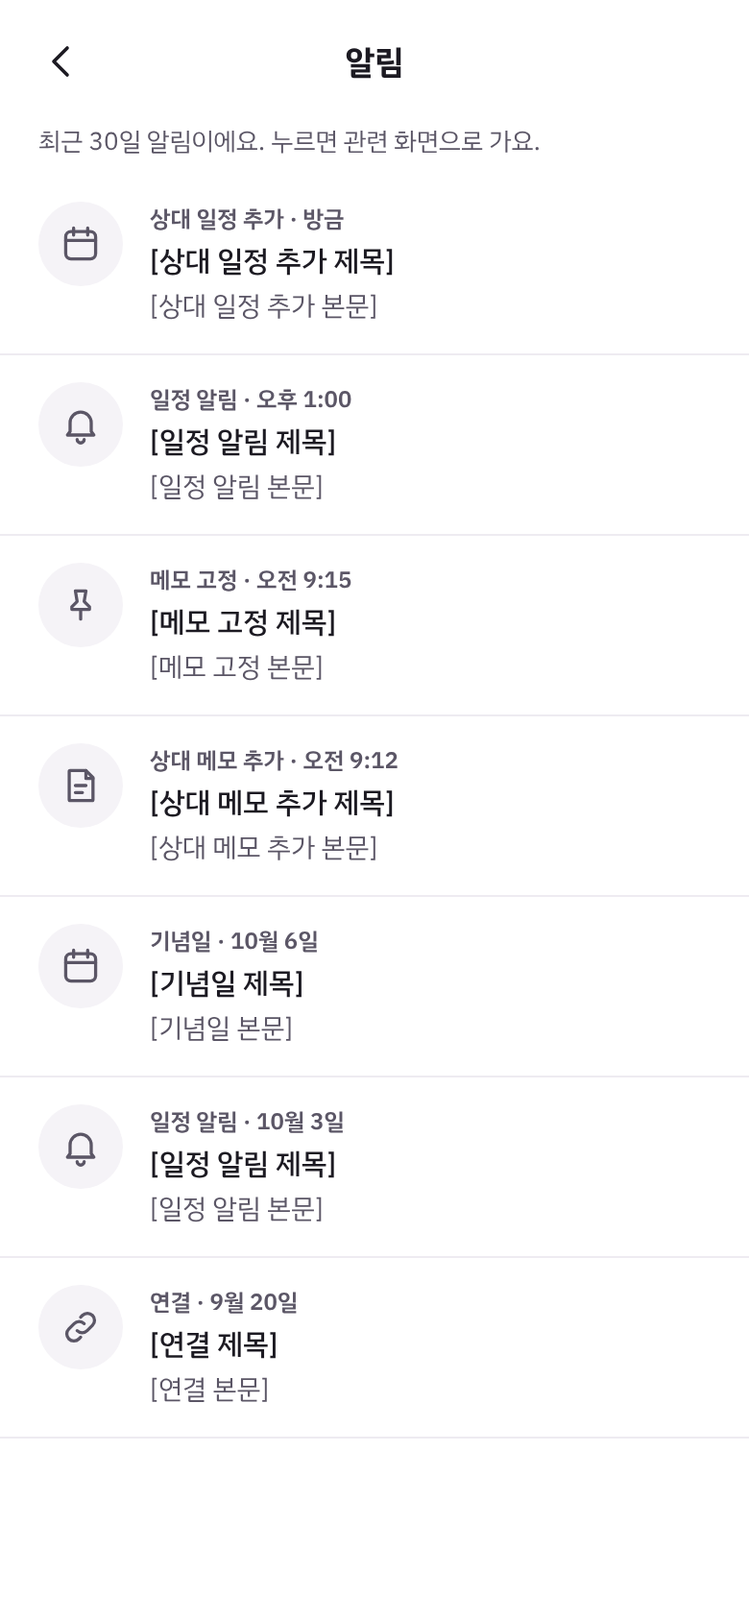
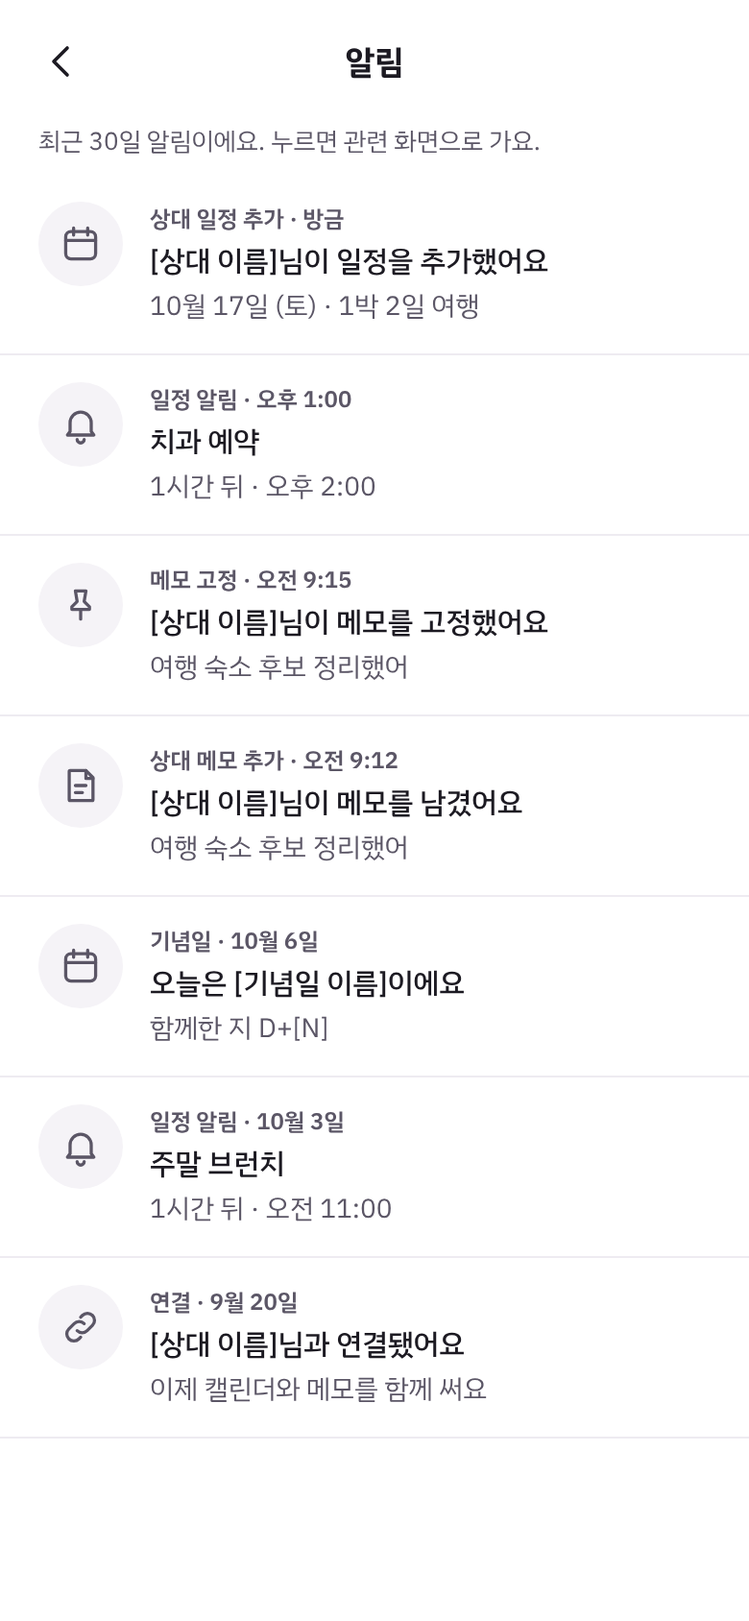
docs(prd): v0.4 남은 결정 반영 (D-43~D-47, Q-09 해결)
- 삭제된 대상 알림은 안내 후 목록에 머묾 (FR-NOTI-05 AC5)
- 탈퇴는 계정 화면 안 (FR-SET-01)
- 해제 시 연결·해제 알림만 남김 (Q-09 해결)
- 알림 문구 표, 잠금화면은 OS 설정에 맡김
- 바뀐 이전 초대코드는 INVITE_EXPIRED
- NFR-TIME-01 메모 날짜, 권한 표 알림 행, 6.6절 순서
- API·ERD·SCREENS·알림 목록 디자인(캔버스 버전 32) 맞춤

Claude-Session: https://claude.ai/code/session_01UgG97h9mRRas5q74ojFbSs

diff --git a/docs/SCREENS.md b/docs/SCREENS.md
@@ -1,9 +1,9 @@
 # 둘이서 화면 명세 (MVP v0.1)
 
 > 기준 문서: 둘이서 PRD v0.4 (`docs/PRD.md`)
-> 디자인 기준: **반영됨 (2026-10-18, 캔버스 버전 30, PRD v0.4)**. 19개 화면 모두 이미지가 있어요.
+> 디자인 기준: **반영됨 (2026-10-18, 캔버스 버전 32, PRD v0.4)**. 19개 화면 모두 이미지가 있어요.
 > 디자인 원본: claude.ai 디자인 캔버스 "커플 공유 앱 데모" (보드 대응표: `design/canvas-map.md`)
-> 디자인 변경 요청서: `design/change-requests/prd-v0.4.md` (반영 완료, 캔버스 버전 30)
+> 디자인 변경 요청서: `design/change-requests/prd-v0.4.md` (반영 완료, 캔버스 버전 32)
 > 함께 보는 문서: `design/design-system.md`, `design/tokens.json`, `design/screens/`
 > 작성일: 2026-10-17 · 갱신: 2026-10-18 (디자인 핸드오프, PRD v0.4 반영)
 
@@ -66,7 +66,7 @@
   - 펼친 상태(달력 크게, 날짜 칸에 일정 막대): `SCR-CAL-01--expanded.png`. 날짜 있는 메모가 펼친 달력에서 어떻게 보이는지는 디자인에서 정해요.
   - 선택한 날 비어 있음: "아직 일정이나 메모가 없어요" + "+ 이 날에 추가하기"
   - 개인 공간: D-day 없음 · 커플 + 처음 만난 날 없음: D-day 자리에 처음 만난 날 입력 안내 (디자인 없음, PRD 기준)
-- **디자인**: 반영됨 (2026-10-18, 캔버스 버전 30, design/screens/SCR-CAL-01.png, SCR-CAL-01--expanded.png) — 알림 버튼의 안 읽음 점, 날짜 점·목록의 메모 표시. 점은 기존 brand-500 색을 써요.
+- **디자인**: 반영됨 (2026-10-18, 캔버스 버전 32, design/screens/SCR-CAL-01.png, SCR-CAL-01--expanded.png) — 알림 버튼의 안 읽음 점, 날짜 점·목록의 메모 표시. 점은 기존 brand-500 색을 써요.
 
 ### SCR-CAL-02 일정 상세
 
@@ -76,7 +76,7 @@
 - **권한**: 수정·삭제는 작성자에게만. 대상이 '함께'면 두 사람 모두
 - **일정 알림 선택지**: 시간 일정은 없음·정시·10분 전·1시간 전·1일 전, 종일 일정은 없음·당일 오전 9시·1일 전 오전 9시. 내 설정만 보임
 - **다이얼로그**: 삭제 확인
-- **디자인**: 반영됨 (2026-10-18, 캔버스 버전 30, design/screens/SCR-CAL-02.png, SCR-CAL-02--partner.png, SCR-CAL-02--delete-dialog.png) — 내 일정(수정·삭제 보임), 상대 일정(수정·삭제 없음), 삭제 확인.
+- **디자인**: 반영됨 (2026-10-18, 캔버스 버전 32, design/screens/SCR-CAL-02.png, SCR-CAL-02--partner.png, SCR-CAL-02--delete-dialog.png) — 내 일정(수정·삭제 보임), 상대 일정(수정·삭제 없음), 삭제 확인.
 
 ### SCR-CAL-03 일정 작성·수정
 
@@ -101,7 +101,7 @@
 - **진입**: SCR-CAL-01 앱바의 "함께한 지 D+N", 기념일 푸시, 알림 목록(SCR-NOTI-01)
 - **구성**: 앱바(뒤로, "기념일", 추가 버튼 → SCR-ANNIV-02), 함께한 날 카드(겹친 원, "함께한 지", D+N, "처음 만난 날 <날짜>"), "다가오는 기념일 · 가까운 순" 목록(날짜 블록 월/일, 이름, "자동 기념일" 또는 "내가/상대가 만든 기념일 · 매년" + 사람 색 점, D-N 배지 — 30일 이내는 `brand-100`/`brand-700`), 하단 안내 문구
 - **권한**: 자동 기념일은 수정·삭제 불가(누를 수 없음). 직접 기념일은 작성자만 수정
-- **디자인**: 반영됨 (2026-10-18, 캔버스 버전 30, design/screens/SCR-ANNIV-01.png) — "처음 만난 날"로 고쳤어요.
+- **디자인**: 반영됨 (2026-10-18, 캔버스 버전 32, design/screens/SCR-ANNIV-01.png) — "처음 만난 날"로 고쳤어요.
 
 ### SCR-ANNIV-02 직접 기념일 작성·수정
 
@@ -126,7 +126,7 @@
   - 즐겨찾기 없음: "즐겨찾기한 메모가 없어요. 메모 옆 별을 눌러 추가해 보세요."
 - **목록 항목**: 제목(없으면 본문 첫 줄), 작성자, 작성일, 메모 날짜(있으면). 작성일과 메모 날짜는 라벨이나 아이콘으로 구분해요.
 - **없는 것**: 검색, 상대 읽음 표시, NEW 배지 (D-41)
-- **디자인**: 반영됨 (2026-10-18, 캔버스 버전 30, design/screens/SCR-MEMO-01.png) — 검색·읽음 표시·NEW·체크리스트 표시를 빼고, 메모 날짜를 작성일과 따로 달력 아이콘 칩으로 보여요.
+- **디자인**: 반영됨 (2026-10-18, 캔버스 버전 32, design/screens/SCR-MEMO-01.png) — 검색·읽음 표시·NEW·체크리스트 표시를 빼고, 메모 날짜를 작성일과 따로 달력 아이콘 칩으로 보여요.
 
 ### SCR-MEMO-02 고정 메모 전체
 
@@ -134,7 +134,7 @@
 - **진입**: SCR-MEMO-01의 "고정 메모 전체 보기" (고정 4개 이상일 때만)
 - **구성**: 앱바(뒤로, "고정된 메모 N"), 안내 "최근에 고정한 순서예요. 핀을 누르면 고정이 풀려요.", 핀 카드 전체(최근 고정순, 메모 날짜가 있으면 날짜), 비었을 때 "고정된 메모가 없어요."
 - **없는 것**: 읽음 표시, NEW 배지 (D-41)
-- **디자인**: 반영됨 (2026-10-18, 캔버스 버전 30, design/screens/SCR-MEMO-02.png) — 읽음·NEW·체크리스트 표시를 빼고 메모 날짜 칩을 넣었어요.
+- **디자인**: 반영됨 (2026-10-18, 캔버스 버전 32, design/screens/SCR-MEMO-02.png) — 읽음·NEW·체크리스트 표시를 빼고 메모 날짜 칩을 넣었어요.
 
 ### SCR-MEMO-03 메모 상세
 
@@ -143,7 +143,7 @@
 - **구성 (PRD 기준)**: 제목, 본문, 메모 날짜(있으면), 작성자 닉네임, 고정 버튼, 즐겨찾기 버튼
 - **권한**: 고정은 두 사람 모두. 수정·삭제는 작성자만(수정 대상: 제목, 본문, 메모 날짜). 즐겨찾기는 각자 (상대에게 안 보임)
 - **다이얼로그**: 삭제 확인
-- **디자인**: 반영됨 (2026-10-18, 캔버스 버전 30, design/screens/SCR-MEMO-03.png, SCR-MEMO-03--partner.png, SCR-MEMO-03--delete-dialog.png) — 내 메모(날짜 있음), 상대 메모(날짜 없음, 고정·즐겨찾기만), 삭제 확인.
+- **디자인**: 반영됨 (2026-10-18, 캔버스 버전 32, design/screens/SCR-MEMO-03.png, SCR-MEMO-03--partner.png, SCR-MEMO-03--delete-dialog.png) — 내 메모(날짜 있음), 상대 메모(날짜 없음, 고정·즐겨찾기만), 삭제 확인.
 
 ### SCR-MEMO-04 메모 작성·수정
 
@@ -152,7 +152,7 @@
 - **구성**: SCR-CAL-03과 같은 화면의 [메모] 탭. 제목(placeholder "예) 주말에 살 것"), 날짜 영역, 메모(본문), "상대에게 알림 보내기" 스위치. 대상 선택 없음. 체크리스트 없음
 - **날짜 영역**: 기본은 날짜가 없고 [날짜 추가] 버튼만 있어요. 버튼을 눌러 날짜를 고르면 버튼이 날짜 행으로 바뀌고, 행 안의 제거 버튼(접근성 라벨 "날짜 빼기")으로 날짜를 뺄 수 있어요. 날짜 행을 누르면 날짜를 바꿀 수 있어요. 날짜를 붙인 메모는 캘린더의 그 날에도 나와요.
 - **조건**: 제목, 본문이 둘 다 비어 있으면 저장되지 않음 (날짜만 있어도 저장되지 않음). 개인 공간과 수정할 때는 알림 스위치가 보이지 않음
-- **디자인**: 반영됨 (2026-10-18, 캔버스 버전 30, design/screens/SCR-MEMO-04.png, SCR-MEMO-04--date.png) — 기본은 [날짜 추가] 버튼, 날짜를 넣으면 날짜 행과 [날짜 빼기].
+- **디자인**: 반영됨 (2026-10-18, 캔버스 버전 32, design/screens/SCR-MEMO-04.png, SCR-MEMO-04--date.png) — 기본은 [날짜 추가] 버튼, 날짜를 넣으면 날짜 행과 [날짜 빼기].
 
 ---
 
@@ -173,14 +173,14 @@
 - **코드 규칙**: 영문 대문자와 숫자 6자리, 헷갈리는 0·O·1·I·L 제외. 만든 지 10분 뒤에 만료돼요.
 - **재요청**: [코드 새로 만들기]를 누르면 이전 코드는 바로 만료되고 새 코드가 나와요(남은 시간은 다시 10분). 마지막으로 만든 지 1분이 안 지났으면 버튼이 비활성이고 "N초 뒤에 다시 만들 수 있어요"가 보여요. 1분이 지나면 버튼이 켜져요.
 - **만료**: 남은 시간이 0이 되면 앱이 새 코드를 자동으로 받아 보여주고, 코드 아래에 "시간이 지나 새 코드를 만들었어요. 새 코드를 다시 보내 주세요."가 보여요. 화면에 다시 들어왔을 때 만료돼 있어도 같아요. 백그라운드에서는 발급하지 않아요 (FR-COUPLE-01 AC5, D-42).
-- **디자인**: 반영됨 (2026-10-18, 캔버스 버전 30, design/screens/SCR-COUPLE-02.png, SCR-COUPLE-02--cooldown.png, SCR-COUPLE-02--renewed.png) — "10분 동안 유효 · N분 N초 남음", 재요청 대기 상태 "N초 뒤에 다시 만들 수 있어요", 만료 후 자동 재발급 안내.
+- **디자인**: 반영됨 (2026-10-18, 캔버스 버전 32, design/screens/SCR-COUPLE-02.png, SCR-COUPLE-02--cooldown.png, SCR-COUPLE-02--renewed.png) — "10분 동안 유효 · N분 N초 남음", 재요청 대기 상태 "N초 뒤에 다시 만들 수 있어요", 만료 후 자동 재발급 안내.
 
 ### SCR-COUPLE-03 초대코드 입력하기
 
 - **관련 FR**: FR-COUPLE-02, FR-COUPLE-01
 - **구성**: 뒤로, 제목 "받은 초대코드를 입력해 주세요", 설명 "영문과 숫자 6자리예요.", 코드 칸 6개(현재 칸 `brand-500` 2px), [붙여넣기], 코드가 다 차면 연결할 상대 카드("[상대 이름]", 다시 입력), [연결하고 시작하기](비활성 → 활성) → SCR-COUPLE-04
 - **입력**: 소문자로 입력해도 되고, 칸에는 대문자로 보여요. 대소문자를 구분하지 않고 같은 코드로 처리해요.
-- **오류 (각각 다른 문구, 디자인 없음)**: 존재하지 않는 코드, 만료된 코드, 이미 사용됐거나 재요청으로 만료된 코드, 자신이 만든 코드, 사용할 수 없는 코드, 1시간 10회 실패로 입력 제한
+- **오류 (각각 다른 문구, 디자인 없음)**: 존재하지 않는 코드, 만료된 코드(재요청·자동 재발급으로 바뀐 이전 코드 포함: "만료된 코드예요. 상대에게 새 코드를 받아 주세요.", PRD D-47), 이미 사용된 코드, 자신이 만든 코드, 사용할 수 없는 코드, 1시간 10회 실패로 입력 제한
 - **디자인**: 반영됨 (2026-10-18, design/screens/SCR-COUPLE-03.png) — 확인 결과 변경 없음 (6칸, "영문과 숫자 6자리예요.", 소문자 입력은 대문자로 보임).
 
 ### SCR-COUPLE-04 연결 완료
@@ -190,7 +190,7 @@
 - **구성**: 겹친 원, 제목 "[상대 이름]님과 연결됐어요", 설명, "처음 만난 날" 날짜 선택("날짜를 골라 주세요", 안내 "D-day와 기념일이 이 날을 1일로 계산돼요. 둘 중 누구든 나중에 바꿀 수 있어요."), "혼자 쓴 기록" — 개수 안내와 [가져오기](기본) / [가져오지 않기] 선택 카드, "내 기록만 정해요. 상대의 기록은 상대가 정해요.", [둘이서 시작하기] → SCR-CAL-01
 - **상태**: 혼자 쓴 기록이 없으면 기록 영역이 없음 · 유예 기간 안 재연결이면 이전 공간이 복구되고 해제 후 새로 쓴 기록만 고름
 - **다이얼로그**: "가져오지 않기"로 시작하면 "혼자 쓴 기록을 삭제할까요?" [취소] [삭제하고 시작] — `SCR-COUPLE-04--drop-dialog.png`
-- **디자인**: 반영됨 (2026-10-18, 캔버스 버전 30, design/screens/SCR-COUPLE-04.png, SCR-COUPLE-04--drop-dialog.png) — "처음 만난 날"로 고쳤어요.
+- **디자인**: 반영됨 (2026-10-18, 캔버스 버전 32, design/screens/SCR-COUPLE-04.png, SCR-COUPLE-04--drop-dialog.png) — "처음 만난 날"로 고쳤어요.
 
 ---
 
@@ -211,11 +211,14 @@
   | 기념일 | SCR-ANNIV-01 |
   | 연결, 해제 | 설정 (SCR-SET-01) |
 
+  - 대상 일정·메모가 이미 삭제됐으면 읽음 처리만 하고 목록에 머물며 "삭제된 일정이에요" 또는 "삭제된 메모예요"를 짧게 보여줘요 (PRD FR-NOTI-05 AC5, D-43).
+- **문구**: 항목의 제목·본문은 PRD 8장 "알림 문구" 표를 따라요 (D-46). 예: "[상대 이름]님이 일정을 추가했어요" / "10월 17일 (토) · 1박 2일 여행". 푸시와 같은 문구예요.
+
 - **상태**
   - 비어 있음: "최근 30일 동안 받은 알림이 없어요"
   - 안 읽음: 항목에 점이 보이고, 읽으면 점이 사라져요. 모든 항목을 읽으면 SCR-CAL-01 알림 버튼의 점도 사라져요.
-- **규칙**: 30일이 지난 알림은 목록에서 사라져요. 알림은 각자의 것이라 상대에게 보이지 않아요. 연결을 해제하면 그 공간에서 온 알림은 목록에서 지워져요 (PRD Q-09 기본값).
-- **디자인**: 반영됨 (2026-10-18, 캔버스 버전 30, design/screens/SCR-NOTI-01.png, SCR-NOTI-01--read.png, SCR-NOTI-01--empty.png) — 안 읽음 섞임, 모두 읽음, 빈 상태. 제목·본문은 자리표시예요. 이동 흐름은 design/screens/flow-prd-v0.4.png.
+- **규칙**: 30일이 지난 알림은 목록에서 사라져요. 알림은 각자의 것이라 상대에게 보이지 않아요. 연결을 해제하면 그 공간에서 온 알림은 목록에서 지워지고, 연결·해제 알림만 남아요 (PRD D-45).
+- **디자인**: 반영됨 (2026-10-18, 캔버스 버전 32, design/screens/SCR-NOTI-01.png, SCR-NOTI-01--read.png, SCR-NOTI-01--empty.png) — 안 읽음 섞임, 모두 읽음, 빈 상태. 제목·본문은 PRD 8장 문구예요. 이동 흐름은 design/screens/flow-prd-v0.4.png.
 
 ---
 
@@ -238,8 +241,8 @@
   - 연결 해제 확인: "연결을 해제할까요?" / "[상대 이름]님과 함께 쓴 캘린더와 메모가 두 사람 화면에서 모두 사라지고, 각자 처음부터 다시 시작해요. 30일 안에 둘이 다시 연결하면 그대로 복구돼요." [취소] [연결 해제] → 앱 초기화 후 SCR-COUPLE-01 — `SCR-SET-01--unlink-dialog.png`
   - 탈퇴 확인: "정말 탈퇴할까요?" / 커플 공간: "먼저 [상대 이름]님과의 연결이 해제되고, 내 계정이 삭제돼요. 탈퇴한 계정은 되돌릴 수 없어요." · 개인 공간: "내 계정과 모든 일정, 기념일, 메모가 바로 삭제돼요. 탈퇴한 계정은 되돌릴 수 없어요." [취소] [탈퇴하기] → SCR-START-01 — `SCR-SET-01--withdraw-dialog.png`
   - 로그아웃 확인 (디자인 없음)
-- **차이**: 탈퇴가 메뉴가 아니라 계정 화면 안에 있음 (PRD는 전체 메뉴에 탈퇴가 보인다고 함, 아직 정하지 않음)
-- **디자인**: 반영됨 (2026-10-18, 캔버스 버전 30, design/screens/SCR-SET-01.png, SCR-SET-01--solo.png, SCR-SET-01--guest.png) — 게스트·혼자일 때 나 + "아직 없음" + [상대와 연결하기]. 알림 설정 행은 SCR-SET-02로 가요.
+- **탈퇴 위치**: 전체 메뉴에 바로 두지 않고 계정 화면 안에 둬요 (PRD D-44, 디자인과 같음)
+- **디자인**: 반영됨 (2026-10-18, 캔버스 버전 32, design/screens/SCR-SET-01.png, SCR-SET-01--solo.png, SCR-SET-01--guest.png) — 게스트·혼자일 때 나 + "아직 없음" + [상대와 연결하기]. 알림 설정 행은 SCR-SET-02로 가요.
 
 ### SCR-SET-02 알림 설정
 
@@ -247,7 +250,7 @@
 - **진입**: SCR-SET-01의 알림 설정
 - **구성 (PRD 기준)**: 앱바(뒤로, "알림 설정"), 스위치 4개 — 일정 알림, 상대 일정·메모 추가, 메모 고정, 기념일(기본 모두 켜짐). 아래에 안내 2줄: "연결·해제 알림은 끌 수 없어요."와 "꺼도 알림 목록에는 남아요"
 - **동작**: 스위치를 끄면 그 종류의 푸시만 오지 않아요. 알림 목록(SCR-NOTI-01)에는 계속 남아요. 설정은 서버에 저장되어 재설치 후에도 유지돼요 (회원 한정).
-- **디자인**: 반영됨 (2026-10-18, 캔버스 버전 30, design/screens/SCR-SET-02.png, SCR-SET-02--mixed.png) — 스위치 4개(기본 모두 켜짐)와 안내 2줄.
+- **디자인**: 반영됨 (2026-10-18, 캔버스 버전 32, design/screens/SCR-SET-02.png, SCR-SET-02--mixed.png) — 스위치 4개(기본 모두 켜짐)와 안내 2줄.
 
 ### SCR-SET-03 우리 색상
 
@@ -255,7 +258,7 @@
 - **구성**: 앱바(뒤로, "우리 색상", 완료), 미리보기(한 주 달력 + 일정 3개), "바꿀 대상" [나 | 상대 | 함께](원 안에 나·너·둘, 색 이름), "<대상> 색상 고르기" 12색(44 원, 선택은 흰 링 + `ink-900` 링 + 체크), 같은 색 경고 배너 "같은 색을 쓰는 대상이 있어요. 캘린더에서 누구 일정인지 구분하기 어려울 수 있어요.", "바꾼 색상은 두 사람 화면에 똑같이 적용돼요.", [기본 색으로 되돌리기]
 - **없는 것**: [직접 고르기]. 색은 12색 중에서만 골라요 (D-41).
 - **개인 공간**: 나 색 하나만 (디자인 없음, PRD 기준)
-- **디자인**: 반영됨 (2026-10-18, 캔버스 버전 30, design/screens/SCR-SET-03.png) — [직접 고르기]를 뺐어요.
+- **디자인**: 반영됨 (2026-10-18, 캔버스 버전 32, design/screens/SCR-SET-03.png) — [직접 고르기]를 뺐어요.
 
 ### SCR-SET-04 프로필 수정
 
@@ -268,7 +271,7 @@
 
 ## PRD와의 차이
 
-디자인 핸드오프(2026-10-18)에서 찾은 차이 10건이에요. PRD v0.4에서 모두 정했어요. 디자인을 고치는 항목은 변경 요청서(`design/change-requests/prd-v0.4.md`)대로 캔버스 버전 30에 반영했어요.
+디자인 핸드오프(2026-10-18)에서 찾은 차이 10건이에요. PRD v0.4에서 모두 정했어요. 디자인을 고치는 항목은 변경 요청서(`design/change-requests/prd-v0.4.md`)대로 캔버스 버전 32에 반영했어요.
 
 | # | 화면 | 디자인 | PRD (v0.3) | 해결 (PRD v0.4) |
 | --- | --- | --- | --- | --- |
@@ -281,10 +284,10 @@
 | 7 | SCR-SET-03 | 직접 고르기 | 12색 중 선택 (FR-CAL-04) | 해결: 디자인을 고침. 직접 고르기 제거 (D-41) |
 | 8 | SCR-SET-01 | 게스트·혼자 상태에서도 상대 프로필 표시 | 상대 없음 | 해결: 디자인을 고침. 상대 자리에 "아직 없음" + [상대와 연결하기] |
 | 9 | SCR-START-01 | "공지사항" 칩 | 공지는 고정 핀 | 해결: 유지하기로 결정. 칩은 그대로 둠 |
-| 10 | SCR-CAL-02, SCR-MEMO-03, SCR-SET-02 | 디자인 없음 | 화면 필요 | 해결: 캔버스 버전 30에서 새로 그림 (SCR-NOTI-01 포함) |
+| 10 | SCR-CAL-02, SCR-MEMO-03, SCR-SET-02 | 디자인 없음 | 화면 필요 | 해결: 캔버스 버전 32에서 새로 그림 (SCR-NOTI-01 포함) |
 
-핸드오프 표에는 없었지만 `SCR-SET-01`에 남은 차이가 하나 있어요.
+핸드오프 표에는 없었지만 `SCR-SET-01`에 차이가 하나 더 있었고, PRD v0.4에서 정했어요.
 
 | # | 화면 | 디자인 | PRD | 상태 |
 | --- | --- | --- | --- | --- |
-| 11 | SCR-SET-01 | 탈퇴가 계정 화면 안에 있음 | 전체 메뉴에 탈퇴 표시 (FR-SET-01) | 미해결 — 사람 확인 필요 (PR에 기록). 정하기 전까지 구현은 PRD를 따름 |
+| 11 | SCR-SET-01 | 탈퇴가 계정 화면 안에 있음 | 전체 메뉴에 탈퇴 표시 (FR-SET-01) | 해결: 디자인대로 계정 화면 안 (PRD D-44) |

diff --git a/docs/PRD.md b/docs/PRD.md
@@ -166,7 +166,7 @@ stateDiagram-v2
 | SCR-COUPLE-02 | 초대코드 만들기 | SCR-COUPLE-01 | 6자리 코드, 남은 시간(10분), 공유, 재요청(1분 간격), 만료 시 자동 재발급 |
 | SCR-COUPLE-03 | 초대코드 입력하기 | SCR-COUPLE-01 | |
 | SCR-COUPLE-04 | 연결 완료 | 연결 성공 직후 (양쪽 모두) | 처음 만난 날 입력, 기존 기록 가져오기 확인 |
-| SCR-SET-01 | 전체 메뉴 (설정) | 캘린더 상단 햄버거 메뉴 | 프로필(이름·사진), 우리 색상, 계정 연동, 커플 관리, 알림 설정, 로그아웃, 탈퇴 |
+| SCR-SET-01 | 전체 메뉴 (설정) | 캘린더 상단 햄버거 메뉴 | 프로필(이름·사진), 우리 색상, 계정(연동, 탈퇴), 커플 관리, 알림 설정, 로그아웃 |
 | SCR-SET-02 | 알림 설정 | SCR-SET-01 | 알림 종류별 켜고 끄기 |
 | SCR-SET-03 | 우리 색상 | SCR-SET-01 | 나·상대·함께 색을 12색 중 선택, 캘린더 미리보기, 같은 색 경고 |
 | SCR-SET-04 | 프로필 수정 | SCR-SET-01 | 이름, 사진 변경 (사진 선택 시트: 앨범, 카메라, 삭제) |
@@ -232,7 +232,7 @@ stateDiagram-v2
 **FR-COUPLE-02 초대코드 입력하기**
 
 - AC1: Given 개인 공간의 회원 B와 유효한 코드를 가진 회원 A, When B가 A의 코드를 입력하면, Then 커플 공간이 만들어지고 두 사람 모두 SCR-COUPLE-04로 이동하며 코드는 사용 처리된다.
-- AC2: Given 존재하지 않는 코드, 만료된 코드, 이미 사용된 코드, 자신이 만든 코드, When 입력하면, Then 각각 구분된 오류 문구로 거부된다.
+- AC2: Given 존재하지 않는 코드, 만료된 코드, 이미 사용된 코드, 자신이 만든 코드, When 입력하면, Then 각각 구분된 오류 문구로 거부된다. 재요청이나 자동 재발급으로 바뀐 이전 코드는 "만료된 코드"로 안내한다 ("만료된 코드예요. 상대에게 새 코드를 받아 주세요.", D-47).
 - AC3: Given 코드를 만든 A가 그 사이 다른 사람과 연결됨, When B가 A의 코드를 입력하면, Then "사용할 수 없는 코드"로 거부된다.
 - AC4: Given 한 사용자, When 1시간 안에 잘못된 코드를 10번 입력하면, Then 1시간 동안 입력이 막힌다 (NFR-SEC-03).
 
@@ -362,12 +362,12 @@ stateDiagram-v2
 - **FR-NOTI-01** AC1: Given Android 13 이상, When 사용자가 처음 알림이 필요한 기능(일정 알림 설정, 커플 연결)을 쓰면, Then 알림 권한을 요청한다. 거부해도 앱의 다른 기능은 쓸 수 있다.
 - **FR-NOTI-02** AC1: Given 사용자, When SCR-SET-02에서 알림 종류를 끄면, Then 그 종류의 푸시는 더 이상 오지 않는다. 설정은 서버에 저장되어 재설치 후에도 유지된다 (회원 한정).
 - **FR-NOTI-03** AC1: Given 푸시 알림, When 누르면, Then 관련 화면(일정 상세, 메모 상세, 기념일 목록, 설정)으로 이동한다.
-- **FR-NOTI-05 알림 목록** (D-39) AC1: Given 사용자에게 8장 알림 정책의 알림이 생김, Then 푸시 설정(FR-NOTI-02)과 상관없이 그 사용자의 알림 목록에 기록된다. AC2: When SCR-NOTI-01을 열면, Then 최근 30일 알림이 최신순으로 보이고, 30일이 지난 알림은 서버에서 삭제된다. AC3: 안 읽은 알림은 표시가 있고, 누르면 읽음 처리되며 FR-NOTI-03의 관련 화면으로 이동한다. AC4: 알림 목록은 사용자 각자의 것이며 상대에게 보이지 않는다.
 - **FR-NOTI-04 상대에게 알림 보내기** (D-35) AC1: Given 커플 공간에서 일정이나 메모를 작성하는 사용자, Then 작성 화면에 "상대에게 알림 보내기" 스위치가 있고 기본은 켜져 있다. AC2: When 켠 채로 저장하면, Then 상대에게 푸시가 간다 (상대의 해당 알림 설정이 켜진 경우만). 끄고 저장하면 보내지 않는다. AC3: 개인 공간에서는 스위치가 보이지 않고, 수정할 때는 알림을 보내지 않는다.
+- **FR-NOTI-05 알림 목록** (D-39) AC1: Given 사용자에게 8장 알림 정책의 알림이 생김, Then 푸시 설정(FR-NOTI-02)과 상관없이 그 사용자의 알림 목록에 기록된다. AC2: When SCR-NOTI-01을 열면, Then 최근 30일 알림이 최신순으로 보이고, 30일이 지난 알림은 서버에서 삭제된다. AC3: 안 읽은 알림은 표시가 있고, 누르면 읽음 처리되며 FR-NOTI-03의 관련 화면으로 이동한다. AC4: 알림 목록은 사용자 각자의 것이며 상대에게 보이지 않는다. AC5: Given 알림의 대상 일정·메모가 이미 삭제됨, When 그 알림을 누르면, Then 읽음 처리하고 "삭제된 일정이에요" 또는 "삭제된 메모예요" 안내를 보여주며 알림 목록에 머문다 (D-43).
 
 ### 6.7 설정 (FR-SET)
 
-- **FR-SET-01** AC1: Given 사용자, When SCR-SET-01을 열면, Then 프로필(이름·사진), 우리 색상, 계정(로그인 수단 표시, 게스트면 연동), 커플(연결 상태, 상대 닉네임, 처음 만난 날, 연결 또는 해제), 알림 설정, 로그아웃(회원만), 탈퇴, 앱 버전이 보인다.
+- **FR-SET-01** AC1: Given 사용자, When SCR-SET-01을 열면, Then 프로필(이름·사진), 우리 색상, 계정(로그인 수단 표시, 게스트면 연동, 탈퇴), 커플(연결 상태, 상대 닉네임, 처음 만난 날, 연결 또는 해제), 알림 설정, 로그아웃(회원만), 앱 버전이 보인다. 탈퇴는 전체 메뉴에 바로 두지 않고 계정 화면 안에 둔다 (D-44).
 
 ---
 
@@ -389,6 +389,7 @@ stateDiagram-v2
 | 메모 즐겨찾기 | 각자 자신의 것만 | 각자 자신의 것만 | D-24 |
 | '함께' 일정 수정·삭제 | ○ | ○ | D-12 |
 | 사람 색(우리 색상) 변경 | ○ (둘 다) | ○ (둘 다) | FR-CAL-04 |
+| 알림 목록 보기·읽음 처리 | 각자 자신의 것만 | 각자 자신의 것만 | FR-NOTI-05 |
 
 **계정 상태별 제한**
 
@@ -414,7 +415,21 @@ stateDiagram-v2
 | 기념일 | 기념일 당일 오전 9시 | 공간의 모든 사용자 | 켜짐 | D-32 |
 | 연결·해제 | 커플 연결 완료, 상대가 연결 해제 | 두 사람(해제는 상대만) | 항상 (끌 수 없음) | FR-COUPLE-05 |
 
-일정·메모의 수정·삭제, 고정 해제는 알리지 않는다. 위 알림은 모두 받은 사람의 알림 목록(SCR-NOTI-01)에 30일간 남고, 푸시를 끈 종류도 목록에는 남는다 (FR-NOTI-05). 화면 갱신용 데이터 신호(NFR-SYNC-01)는 알림이 아니므로 사용자에게 보이지 않는다.
+**알림 문구** (D-46). 푸시와 알림 목록에 같은 문구를 쓴다. `[ ]`는 실제 값으로 바꾼다. 제목이 없는 메모는 본문 첫 줄을 쓴다.
+
+| 알림 종류 | 제목 | 본문 |
+| --- | --- | --- |
+| 일정 알림 | [일정 제목] | [알림 시점] · [시작 시각] (예: 1시간 뒤 · 오후 7:30, 종일 일정은 "오늘 · 하루 종일") |
+| 상대 일정 추가 | [상대 이름]님이 일정을 추가했어요 | [날짜] · [일정 제목] (예: 10월 17일 (토) · 1박 2일 여행) |
+| 상대 메모 추가 | [상대 이름]님이 메모를 남겼어요 | [메모 제목] |
+| 메모 고정 | [상대 이름]님이 메모를 고정했어요 | [메모 제목] |
+| 기념일 | 오늘은 [기념일 이름]이에요 | 함께한 지 D+[N] |
+| 연결 | [상대 이름]님과 연결됐어요 | 이제 캘린더와 메모를 함께 써요 |
+| 연결 해제 | [상대 이름]님이 연결을 해제했어요 | 30일 안에 다시 연결하면 기록이 돌아와요 |
+
+잠금화면에서도 제목·본문을 그대로 보여준다. 가리는 것은 기기의 OS 설정(민감한 내용 숨기기)에 맡기고 앱에서 따로 가리지 않는다 (D-46).
+
+일정·메모의 수정·삭제, 고정 해제는 알리지 않는다. 위 알림은 모두 받은 사람의 알림 목록(SCR-NOTI-01)에 30일간 남고, 푸시를 끈 종류도 목록에는 남는다 (FR-NOTI-05). 연결을 해제하면 그 커플 공간에서 받은 알림은 두 사람 모두 지우고, 연결·해제 알림만 남긴다 (D-45). 화면 갱신용 데이터 신호(NFR-SYNC-01)는 알림이 아니므로 사용자에게 보이지 않는다.
 
 ---
 
@@ -435,7 +450,7 @@ stateDiagram-v2
 | NFR-SEC-03 | 보안 | 초대코드 오입력은 사용자당 1시간에 10회까지 허용한다 | 기본값 |
 | NFR-PRIV-01 | 개인정보 | 소셜 계정에서는 고유 식별자와 프로필 이름만 받는다. 이메일, 전화번호, 생년월일은 받지 않는다 | 기본값 |
 | NFR-PRIV-02 | 개인정보 | 탈퇴 시 개인 공간 데이터는 즉시 삭제하고, 커플 공간 데이터는 90일 보관 후 삭제한다 (D-36). 보관 기간과 목적(장애 복구)을 개인정보처리방침에 명시한다. 출시 전 개인정보처리방침이 필요하다 (Q-03) | D-06 |
-| NFR-TIME-01 | 시간 | 일시는 서버에 UTC로 저장하고 기기 시간대로 표시한다. 종일 일정과 기념일은 시간대 없이 날짜만 저장한다 | 기본값 |
+| NFR-TIME-01 | 시간 | 일시는 서버에 UTC로 저장하고 기기 시간대로 표시한다. 종일 일정, 기념일, 메모 날짜는 시간대 없이 날짜만 저장한다 | 기본값 |
 | NFR-LIMIT-01 | 입력 제한 | 일정 제목 50자, 일정 메모 1,000자, 메모 제목 50자, 메모 본문 5,000자, 기념일 이름 30자, 닉네임 20자 | 기본값 |
 | NFR-FILE-01 | 파일 | 프로필 사진은 JPEG·PNG, 원본 최대 10MB. 서버에서 긴 변 512px로 줄여 저장하고 원본은 보관하지 않는다. 본인과 같은 공간의 상대만 볼 수 있고, 교체·삭제·탈퇴 시 즉시 삭제한다 | 기본값 |
 
@@ -489,6 +504,11 @@ stateDiagram-v2
 | D-40 | 커플이 시작한 날의 화면 용어는 "처음 만난 날" (v0.4 변경, 이전: 사귄 날) | 확정 | 디자인과 일치 |
 | D-41 | 메모 검색, 메모 읽음 표시·NEW 표시, 우리 색상의 직접 색 고르기는 범위 밖 | 확정 | MVP 범위 축소. 디자인에서 뺀다 |
 | D-42 | 초대코드가 만료되면 SCR-COUPLE-02에서 새 코드를 자동으로 발급한다. 만료 화면은 따로 두지 않는다 | 확정 | 사용자가 버튼을 누를 필요가 없음. 만료 시점에는 마지막 발급 후 10분이 지나 재요청 간격(1분)에 걸리지 않음 |
+| D-43 | 대상이 삭제된 알림을 누르면 "삭제된 일정이에요"·"삭제된 메모예요" 안내 후 알림 목록에 머문다. 삭제할 때 알림을 같이 지우지 않는다 | 확정 | 30일 기록을 유지하면서 빈 화면으로 보내지 않음 |
+| D-44 | 탈퇴는 전체 메뉴에 바로 두지 않고 계정 화면 안에 둔다 | 확정 | 실수 방지. 디자인과 일치 |
+| D-45 | 연결 해제 시 그 커플 공간의 알림은 두 사람 모두 지우고, 연결·해제 알림만 남긴다 | 확정 | 해제 이유를 알 수 있게 하면서 볼 수 없는 공간의 내용은 남기지 않음 (Q-09 해결) |
+| D-46 | 알림 문구는 8장 표를 따른다. 잠금화면에서도 제목·본문을 보여주고, 가리기는 OS 설정에 맡긴다 | 확정 | 일반적인 앱 동작 |
+| D-47 | 재요청·자동 재발급으로 바뀐 이전 코드를 입력하면 "만료된 코드"로 안내한다 | 확정 | 입력하는 사람 입장에서는 만료와 같음 |
 
 ---
 
@@ -506,7 +526,7 @@ stateDiagram-v2
 | Q-06 | 체크 표시만 상대도 가능하게 한 예외(D-22)를 유지하나? | 해결: 체크리스트가 범위 밖이 됨 (v0.4) | FR-MEMO-04 |
 | Q-07 | 처음 만난 날은 둘 다 수정할 수 있어야 하나? | 확정: 둘 다 가능 | FR-COUPLE-04 |
 | Q-08 | 내가 대상을 '상대'로 만든 일정을 그 상대가 수정할 수 있어야 하나? | 해결: 상대를 대상으로 지정할 수 없음 (D-34) | FR-CAL-03 |
-| Q-09 | 연결 해제 후 이전 커플 공간에서 온 알림은 알림 목록에 남기나? | 기본값: 해제 시 그 공간의 알림을 함께 지운다 (D-37과 같은 이유) | FR-NOTI-05 |
+| Q-09 | 연결 해제 후 이전 커플 공간에서 온 알림은 알림 목록에 남기나? | 해결: D-45 (연결·해제 알림만 남김) | FR-NOTI-05 |
 
 ---
 
@@ -517,4 +537,4 @@ stateDiagram-v2
 | 2026-10-17 | 0.1 | PRD 인터뷰 결과로 초안 작성 (계정·연결, 캘린더, 메모·기념일, 공통 정책) |
 | 2026-10-17 | 0.2 | 디자인과 정합: 일정 대상(나·상대·함께), 사람별 색(우리 색상), 프로필 사진 추가 |
 | 2026-10-17 | 0.3 | 일정 대상은 나·함께만, 상대에게 알림 보내기 스위치, 탈퇴 시 커플 공간 90일 보관, 해제 시 앱 초기화 (Q-05, Q-08 해결) |
-| 2026-10-18 | 0.4 | 디자인 차이 정리: 초대코드 6자리·10분·재요청 1분, 메모 날짜(선택)와 캘린더 표시, 체크리스트 범위 밖, "처음 만난 날" 용어, 알림 목록(30일), 메모 검색·읽음·NEW·직접 색 고르기 범위 밖, 초대코드 만료 시 자동 재발급(D-42) |
+| 2026-10-18 | 0.4 | 디자인 차이 정리: 초대코드 6자리·10분·재요청 1분, 메모 날짜(선택)와 캘린더 표시, 체크리스트 범위 밖, "처음 만난 날" 용어, 알림 목록(30일), 메모 검색·읽음·NEW·직접 색 고르기 범위 밖, 초대코드 만료 시 자동 재발급(D-42), 삭제된 대상 알림·탈퇴 위치·해제 후 알림·알림 문구·이전 코드 안내(D-43~D-47, Q-09 해결) |

diff --git a/docs/API.md b/docs/API.md
@@ -122,6 +122,8 @@
 - `type`: `EVENT_REMINDER`, `PARTNER_CREATED`, `MEMO_PINNED`, `ANNIVERSARY`, `COUPLE_LINKED`, `COUPLE_UNLINKED`
 - `targetType`: `EVENT`, `MEMO`, `ANNIVERSARY`, `SETTINGS` (FR-NOTI-03의 이동 대상). 이동 대상이 없으면 `targetType`, `targetId`는 null
 - 다른 사람의 알림 ID나 없는 ID는 404 `NOT_FOUND`로 같게 응답한다 (R-12)
+- `title`, `body`는 알림을 만들 때 서버가 PRD 8장 "알림 문구" 표대로 채워 저장한다. 푸시에도 같은 값을 보낸다 (D-46). 이름·제목이 나중에 바뀌어도 이미 만든 알림은 그대로다
+- 대상 일정·메모가 지워져도 알림은 지우지 않는다. 앱은 알림을 누르면 먼저 `PUT /notifications/{id}/read`를 부르고, 대상 조회(`GET /events/{id}`, `GET /memos/{id}`)가 404면 "삭제된 일정이에요"·"삭제된 메모예요"를 보여주고 목록에 머문다 (FR-NOTI-05.AC5, D-43)
 
 ---
 
@@ -151,7 +153,7 @@
 
 1. A가 `POST /invite-codes`를 호출한다. 서버는 A의 가장 최근 코드 `created_at` + 60초가 지났는지 먼저 본다. 안 지났으면 429 `INVITE_REISSUE_TOO_SOON`과 `retryAfterSeconds`를 돌려준다. 지났으면 같은 트랜잭션에서 A의 사용되지 않은 이전 코드 모두(만료됐어도 `used_at`과 `revoked_at`이 null인 것 포함)에 `revoked_at`을 기록하고(부분 UNIQUE `creator_user_id` WHERE `used_at IS NULL AND revoked_at IS NULL`을 지키기 위해), 6자리 새 코드(`expires_at` = 지금 + 10분)를 만들어 `{code, expiresAt, reissueAvailableAt}`(= 생성 + 60초)을 돌려준다. 앱은 `GET /invite-codes/current`로 남은 시간과 `reissueAvailableAt`을 다시 읽을 수 있다 (FR-COUPLE-01). 코드가 만료되면 앱이 SCR-COUPLE-02를 보고 있는 동안(또는 다시 들어왔을 때) 같은 `POST /invite-codes`를 호출해 새 코드를 받는다. 만료 시점에는 마지막 발급 후 10분이 지났으므로 429가 나지 않는다. 서버에 따로 자동 발급 작업은 두지 않는다 (FR-COUPLE-01.AC5, D-42).
 2. B가 `POST /couple/join`으로 코드를 보낸다. 서버는 `code`의 공백을 제거하고 대문자로 바꾼 뒤 비교한다 (FR-COUPLE-01.AC4). 먼저 최근 1시간 실패가 10회 이상인지 본다 (NFR-SEC-03). 시도는 성공·실패 모두 `invite_code_attempts`에 남긴다.
-3. 코드 행을 잠그고 검사한다: 존재, 미만료, 미사용, 미무효, 만든 사람이 B가 아님, A와 B 모두 MEMBER이고 개인 공간에 있음. 실패마다 다른 오류 코드를 돌려준다 (FR-COUPLE-02.AC2, 5장).
+3. 코드 행을 잠그고 검사한다: 존재, 미만료, 미사용, 미무효, 만든 사람이 B가 아님, A와 B 모두 MEMBER이고 개인 공간에 있음. 실패마다 다른 오류 코드를 돌려준다 (FR-COUPLE-02.AC2, 5장). 재요청·자동 재발급으로 무효가 된 코드(`revoked_at` 있음)는 만료와 같은 `INVITE_EXPIRED`로 응답한다 (PRD D-47).
 4. **복구 확인**: `purge_at`이 지나지 않았고 이전 구성원이 정확히 A와 B인 UNLINKED 커플 공간이 있으면, 그 공간을 다시 ACTIVE로 바꾸고 두 사람의 `space_members.left_at`과 공간의 `unlinked_at`, `purge_at`을 비운다 (FR-COUPLE-06). 없으면 새 커플 공간과 구성원(A 주황, B 파랑, 함께 보라)을 만든다.
 5. A와 B의 개인 공간 소속에 `left_at`을 기록하고 코드를 사용 처리한다. 개인 공간 자체는 아직 지우지 않는다 (가져오기 대기).
 6. 응답에 `restored`와, 개인 공간에 데이터가 있으면 `importPending: true`를 넣는다. A와 B 두 사람 각자에게 `notifications`(`COUPLE_LINKED`, `space_id` null) 행을 만들고, 두 사람 모두에게 푸시를 보낸다 (PRD 8장, 7장).
@@ -162,7 +164,7 @@
 
 1. 둘 중 한 명이 `DELETE /couple`을 호출한다.
 2. 커플 공간을 UNLINKED로 바꾸고 `unlinked_at` = 지금, `purge_at` = 지금 + 30일로 기록한다. 두 구성원의 소속에 `left_at`을 기록한다.
-3. 그 공간의 `event_reminders`를 삭제한다 (더 이상 볼 수 없는 일정의 알림이 가지 않도록). 같은 트랜잭션에서 그 공간의 `notifications`(`space_id` = 해제한 공간)도 두 사람 모두 삭제한다 (PRD Q-09). 이 뒤에 만드는 `COUPLE_UNLINKED` 알림은 `space_id`가 null이라 남는다.
+3. 그 공간의 `event_reminders`를 삭제한다 (더 이상 볼 수 없는 일정의 알림이 가지 않도록). 같은 트랜잭션에서 그 공간의 `notifications`(`space_id` = 해제한 공간)도 두 사람 모두 삭제한다 (PRD D-45). 이 뒤에 만드는 `COUPLE_UNLINKED` 알림은 `space_id`가 null이라 남는다.
 4. 두 사람 각자에게 새 개인 공간을 만든다. 사람 색은 기본값(주황)으로 시작한다.
 5. 상대에게 `COUPLE_UNLINKED` 알림을 만들고, 상대 기기에 동기화 신호(`SPACE`, `UNLINKED`)와 해제 푸시를 보낸다 (7장).
 6. **앱 초기화** (PRD D-37): 해제한 사람은 응답을 받은 직후, 상대는 신호를 받거나 다음 실행 시 `GET /me`의 활성 공간 ID가 기기에 저장된 값과 다른 것을 확인하면, 로그인 정보를 뺀 로컬 데이터를 지우고 재시작해 자동 로그인한 뒤 SCR-COUPLE-01(연결 방법 선택)로 이동한다.
@@ -185,8 +187,8 @@
 | 403 | GUEST_NOT_ALLOWED | 게스트의 커플 연결 시도 | R-09, D-07 |
 | 404 | NOT_FOUND | 없거나 다른 공간의 리소스 | R-01 |
 | 404 | INVITE_NOT_FOUND | 존재하지 않는 초대코드 | FR-COUPLE-02.AC2 |
-| 409 | INVITE_EXPIRED | 만료된 코드 | FR-COUPLE-01.AC2 |
-| 409 | INVITE_USED | 이미 사용되었거나 재요청으로 만료된 코드 | FR-COUPLE-02.AC2, FR-COUPLE-01.AC3 |
+| 409 | INVITE_EXPIRED | 만료된 코드, 또는 재요청·자동 재발급으로 바뀐 이전 코드 | FR-COUPLE-01.AC2, FR-COUPLE-02.AC2 (D-47) |
+| 409 | INVITE_USED | 이미 사용된 코드 | FR-COUPLE-02.AC2 |
 | 409 | INVITE_SELF | 자신이 만든 코드 | FR-COUPLE-02.AC2 |
 | 409 | INVITE_UNAVAILABLE | 코드를 만든 사람이 이미 다른 사람과 연결됨 | FR-COUPLE-02.AC3 |
 | 409 | ALREADY_COUPLED | 요청자가 이미 커플 공간에 있음 | R-09 |

diff --git a/docs/ERD.md b/docs/ERD.md
@@ -123,7 +123,7 @@
 | --- | --- | --- | --- |
 | id | uuid | PK | |
 | user_id | uuid | not null, FK users ON DELETE CASCADE | 받는 사람. 알림은 받는 사람 각자의 것이며 상대에게 보이지 않는다 (FR-NOTI-05.AC4) |
-| space_id | uuid | null, FK spaces ON DELETE CASCADE | 콘텐츠 알림은 그 공간, 연결·해제 알림은 null (Q-09) |
+| space_id | uuid | null, FK spaces ON DELETE CASCADE | 콘텐츠 알림은 그 공간, 연결·해제 알림은 null (PRD D-45) |
 | type | varchar(30) | not null, CHECK in (`EVENT_REMINDER`, `PARTNER_CREATED`, `MEMO_PINNED`, `ANNIVERSARY`, `COUPLE_LINKED`, `COUPLE_UNLINKED`) | PRD 8장 알림 종류 |
 | title | varchar(100) | not null | 푸시 제목과 같음 |
 | body | varchar(200) | null | 푸시 본문과 같음 |
@@ -308,7 +308,7 @@
 
 - 커플 공간은 `status = UNLINKED`, `unlinked_at` = 해제 시각, `purge_at` = 해제 시각 + 30일 (PRD D-06)
 - 두 구성원의 `space_members.left_at`을 기록하고, 그 공간의 `event_reminders`를 삭제한다
-- 해제한 공간의 `space_id`를 가진 `notifications`를 두 사람 모두 삭제한다 (PRD Q-09). 이 처리 뒤에 만드는 `COUPLE_UNLINKED` 알림은 `space_id`가 null이라 지워지지 않는다
+- 해제한 공간의 `space_id`를 가진 `notifications`를 두 사람 모두 삭제한다 (PRD D-45). 이 처리 뒤에 만드는 `COUPLE_UNLINKED` 알림은 `space_id`가 null이라 지워지지 않는다
 - `purge_at` 전에 같은 두 사람이 다시 연결하면 공간을 ACTIVE로 되돌리고 `left_at`, `unlinked_at`, `purge_at`을 비운다 (FR-COUPLE-06)
 
 ### 4.3 탈퇴 (익명화)
@@ -328,7 +328,7 @@
 
 ### 4.5 공간이 지워질 때 알림 (notifications.space_id CASCADE)
 
-`notifications.space_id`는 `ON DELETE CASCADE`이므로 공간이 지워지면 그 공간의 알림도 30일이 되기 전에 함께 지워진다. 사라진 공간을 가리키는 알림을 남기지 않으려는 의도한 동작이고, 연결 해제 때 알림을 지우는 이유(PRD Q-09)와 같다.
+`notifications.space_id`는 `ON DELETE CASCADE`이므로 공간이 지워지면 그 공간의 알림도 30일이 되기 전에 함께 지워진다. 사라진 공간을 가리키는 알림을 남기지 않으려는 의도한 동작이고, 연결 해제 때 알림을 지우는 이유(PRD D-45)와 같다. 대상 일정·메모가 지워져도 알림 행은 지우지 않는다(`target_id`는 FK가 아님, PRD D-43).
 
 - 커플 연결 뒤 개인 공간이 지워질 때(가져오지 않기를 고른 경우 포함): 그 개인 공간의 `space_id`를 가진 알림도 함께 지워진다.
 - 탈퇴로 개인 공간이 지워질 때(4.3의 3단계): 그 개인 공간의 알림도 함께 지워진다. 사용자 본인의 알림은 4.3의 4단계에서도 지운다.

diff --git a/design/canvas-map.md b/design/canvas-map.md
@@ -6,7 +6,7 @@
 | --- | --- |
 | 디자인 캔버스 | 커플 공유 앱 데모 — https://claude.ai/artifact/LKUStrD3gPGhMkprsPKgaS |
 | 디자인 시스템 | 디자인시스템 — https://claude.ai/artifact/X1WrZonYhaZ3qXSc3o2Mrj (캔버스 안 사본: `project/ds/duriseo/tokens.json`) |
-| 마지막 반영 | 2026-10-18 · 캔버스 버전 30 · PRD v0.4 |
+| 마지막 반영 | 2026-10-18 · 캔버스 버전 32 · PRD v0.4 |
 
 캔버스 링크는 주코님 계정에서만 열려요(비공개).
 
